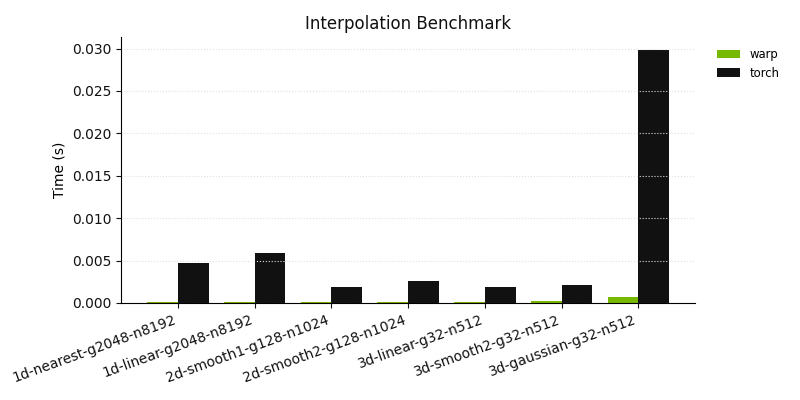
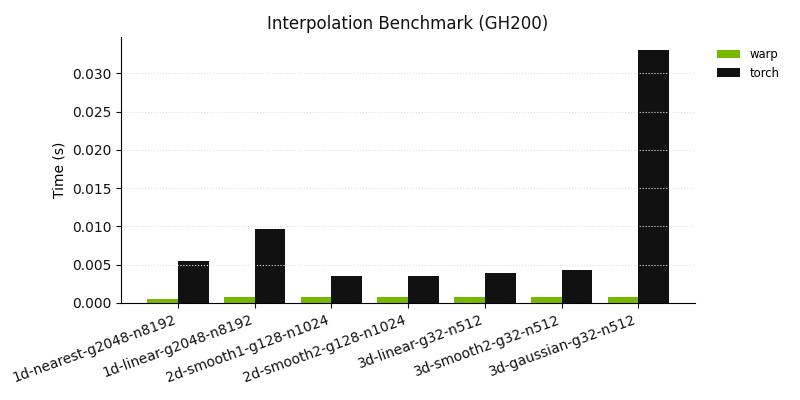
blaa

diff --git a/docs/api/nn/functionals/neighbors.rst b/docs/api/nn/functionals/neighbors.rst
@@ -6,12 +6,6 @@ KNN
 
 .. autofunction:: physicsnemo.nn.functional.knn
 
-.. rubric:: Benchmarks (ASV)
-
-.. figure:: /nn/functional/knn/benchmark.png
-   :alt: KNN benchmark comparison
-   :width: 100%
-
 Radius Search
 -------------
 
